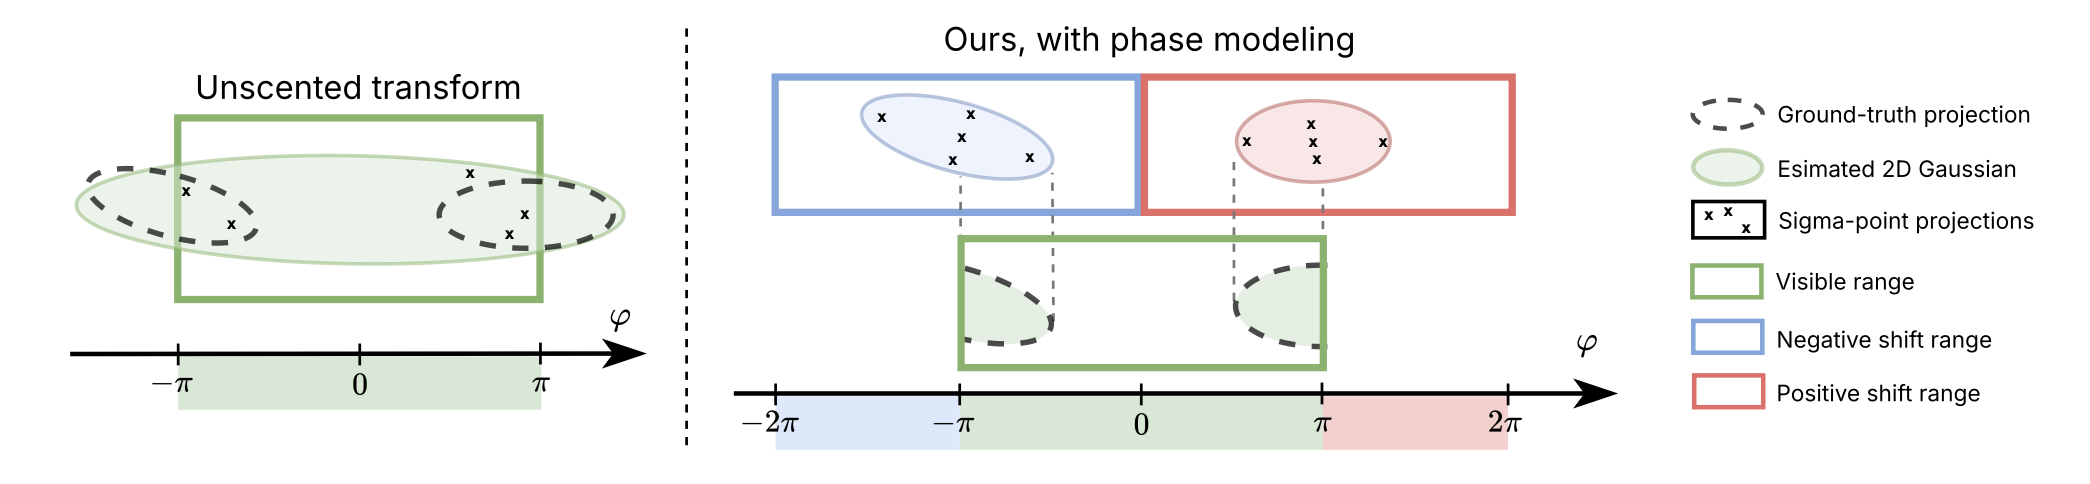
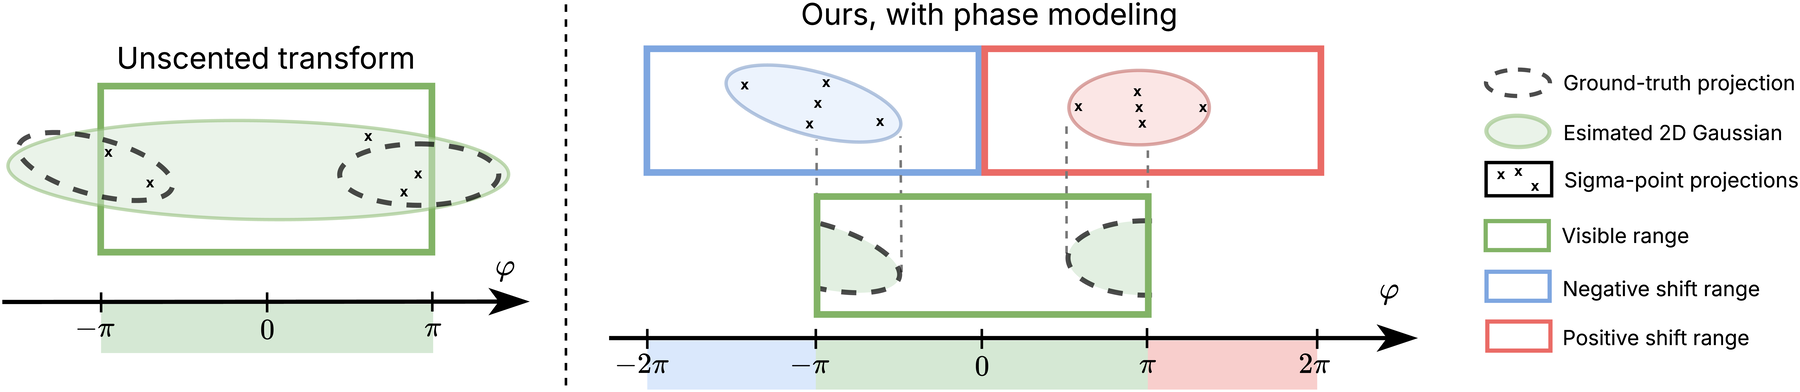
method images

diff --git a/index.html b/index.html
@@ -254,8 +254,8 @@
             TODO: Problem statement + plain-language explanation (Figure 4).
           </p>
           <figure class="method-inline-figure">
-            <img src="static/pdfs/method/lidar_discont.pdf" alt="Figure 4 from the paper showing the LiDAR temporal/spatial discontinuity problem" loading="lazy">
-            <figcaption>Figure 4. Problem / discontinuity (TODO caption text)</figcaption>
+            <img src="static/images/method/figure_4.png" alt="Figure 4 from the paper showing the LiDAR temporal/spatial discontinuity problem" loading="lazy">
+            <figcaption>Figure 4. Problem / discontinuity (TODO caption text) <a href="static/pdfs/method/lidar_discont.pdf" target="_blank" rel="noopener">[PDF]</a></figcaption>
           </figure>
 
           <p>
@@ -266,16 +266,16 @@
             TODO: Discontinuity solution illustration (Figure 6).
           </p>
           <figure class="method-inline-figure">
-            <img src="static/pdfs/method/phm-hor-v2.pdf" alt="Figure 6 from the paper showing the proposed discontinuity solution mechanism" loading="lazy">
-            <figcaption>Figure 6. Solution mechanism (TODO caption text)</figcaption>
+            <img src="static/images/method/figure_6.png" alt="Figure 6 from the paper showing the proposed discontinuity solution mechanism" loading="lazy">
+            <figcaption>Figure 6. Solution mechanism (TODO caption text) <a href="static/pdfs/method/phm-hor-v2.pdf" target="_blank" rel="noopener">[PDF]</a></figcaption>
           </figure>
 
           <p>
             TODO: Contribution 2: LiDAR opacity (Figure 5).
           </p>
           <figure class="method-inline-figure">
-            <img src="static/pdfs/method/lo_effect.pdf" alt="Figure 5 from the paper illustrating the LiDAR opacity component" loading="lazy">
-            <figcaption>Figure 5. LiDAR opacity (TODO caption text)</figcaption>
+            <img src="static/images/method/figure_5.png" alt="Figure 5 from the paper illustrating the LiDAR opacity component" loading="lazy">
+            <figcaption>Figure 5. LiDAR opacity (TODO caption text) <a href="static/pdfs/method/lo_effect.pdf" target="_blank" rel="noopener">[PDF]</a></figcaption>
           </figure>
         </div>
       </div>
